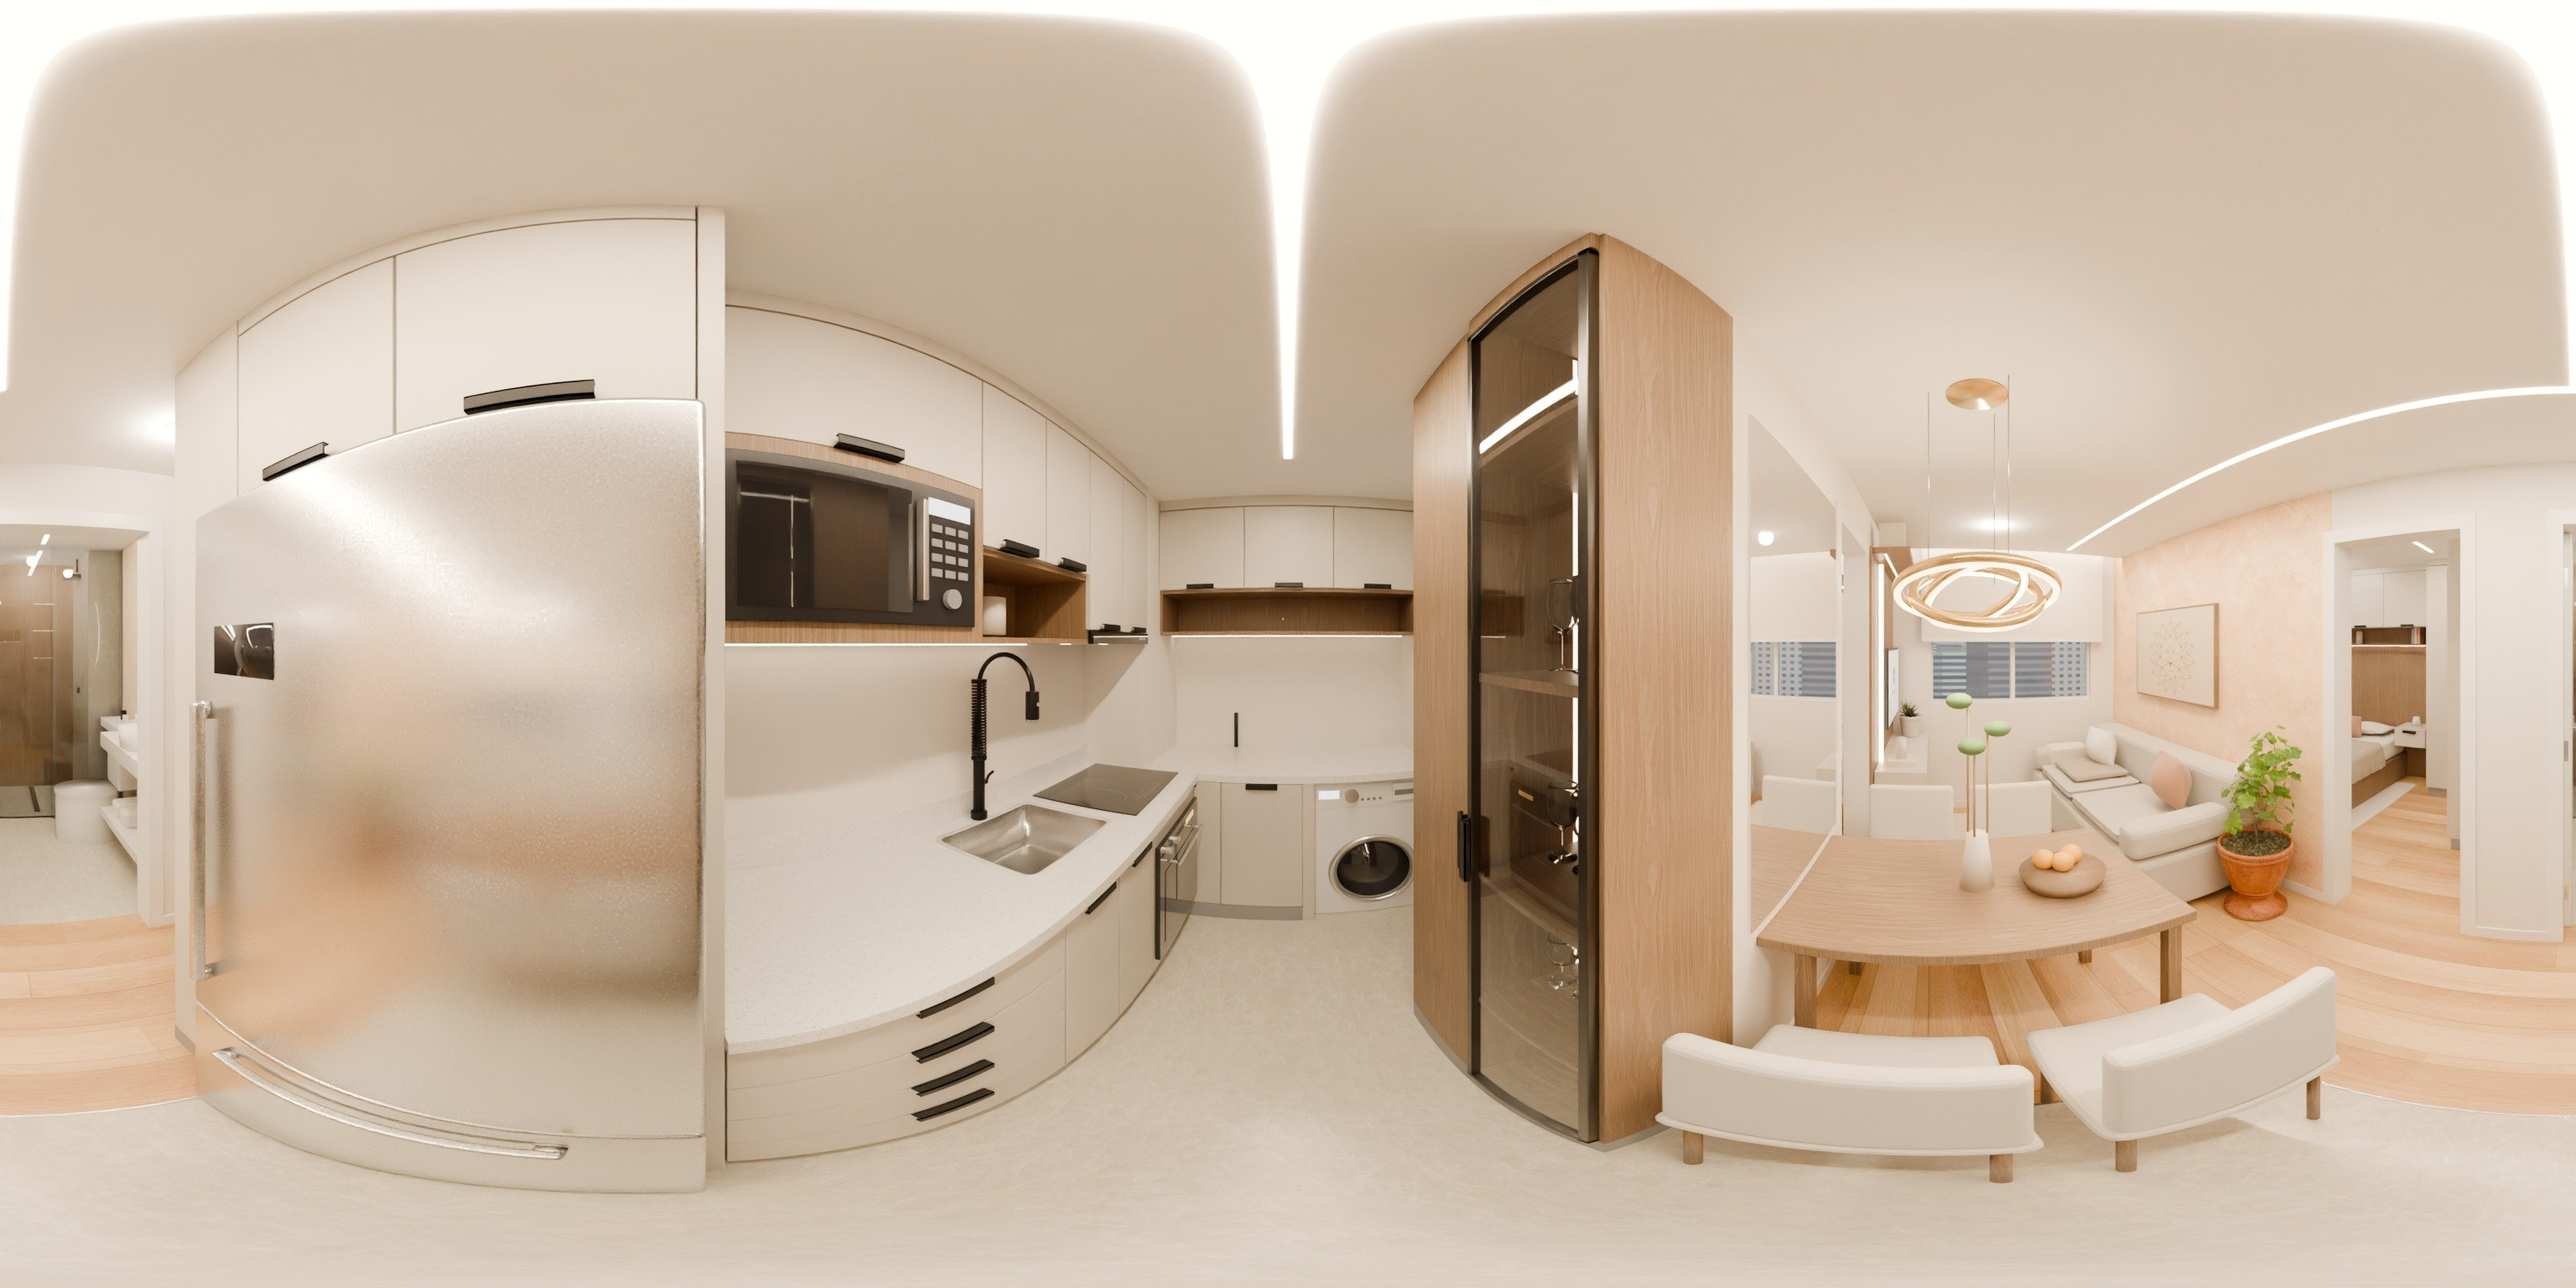
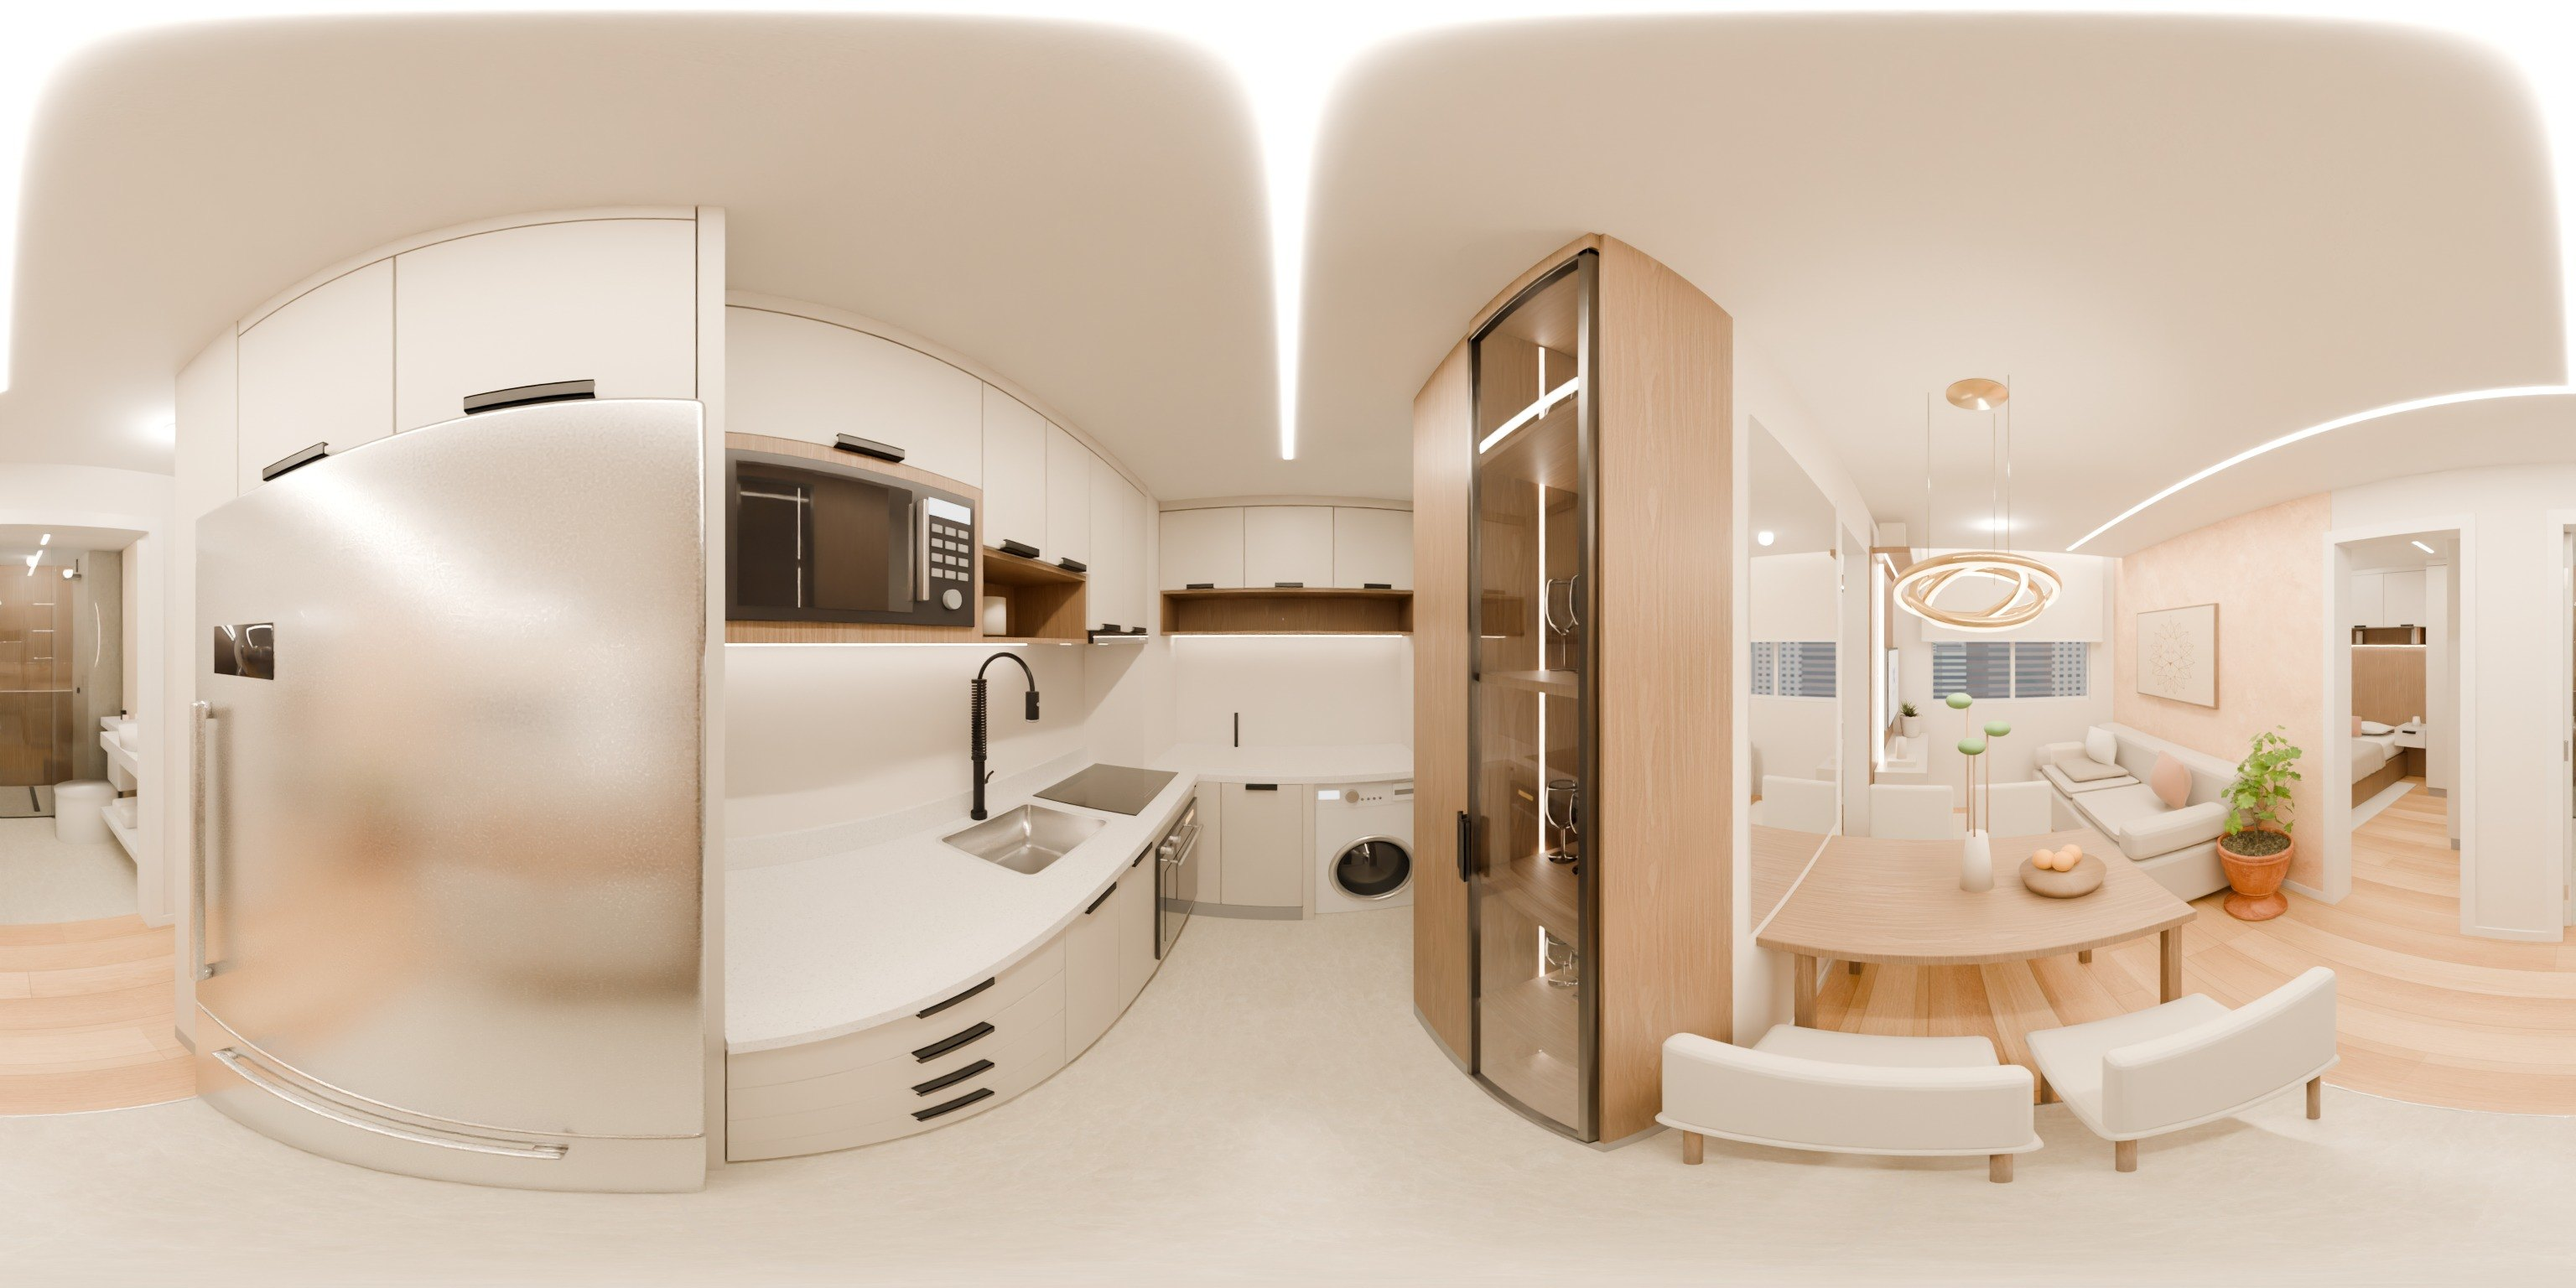
360: novo render de dia (LEDs fortes, nicho do box, cristaleira)
Claude-Session: https://claude.ai/code/session_01TCwC85nDjNHJiKaGTNL9QG

diff --git a/360/index.html b/360/index.html
@@ -54,11 +54,11 @@ nav button:focus-visible{outline:2px solid var(--brand);outline-offset:2px}
 <script>
 // posição de cada foto 360 na planta (m) e portas para onde as setas apontam
 const ROOMS=[
- {name:"Sala",img:"sala.jpg?v=6",p:[3.55,-3.3],go:[["Cozinha",1,[4.1,-1.7]],["Dormitório 02",3,[4.74,-3.04]],["Dormitório 01",2,[2.42,-1.9]],["Banheiro",4,[2.6,-0.75]]]},
- {name:"Cozinha",img:"cozinha.jpg?v=6",p:[4.3,-1.05],go:[["Sala",0,[3.6,-3.0]],["Banheiro",4,[2.6,-0.75]]]},
- {name:"Dormitório 01",img:"dormitorio_01.jpg?v=6",p:[1.2,-2.4],go:[["Sala",0,[2.42,-1.9]]]},
- {name:"Dormitório 02",img:"dormitorio_02.jpg?v=6",p:[5.7,-3.1],go:[["Sala",0,[4.74,-3.04]]]},
- {name:"Banheiro",img:"banheiro.jpg?v=6",p:[1.75,-0.75],look:[0.45,-0.65],go:[["Cozinha",1,[2.6,-0.75]]]}];
+ {name:"Sala",img:"sala.jpg?v=7",p:[3.55,-3.3],go:[["Cozinha",1,[4.1,-1.7]],["Dormitório 02",3,[4.74,-3.04]],["Dormitório 01",2,[2.42,-1.9]],["Banheiro",4,[2.6,-0.75]]]},
+ {name:"Cozinha",img:"cozinha.jpg?v=7",p:[4.3,-1.05],go:[["Sala",0,[3.6,-3.0]],["Banheiro",4,[2.6,-0.75]]]},
+ {name:"Dormitório 01",img:"dormitorio_01.jpg?v=7",p:[1.2,-2.4],go:[["Sala",0,[2.42,-1.9]]]},
+ {name:"Dormitório 02",img:"dormitorio_02.jpg?v=7",p:[5.7,-3.1],go:[["Sala",0,[4.74,-3.04]]]},
+ {name:"Banheiro",img:"banheiro.jpg?v=7",p:[1.75,-0.75],look:[0.45,-0.65],go:[["Cozinha",1,[2.6,-0.75]]]}];
 const view=document.getElementById('view'),hint=document.getElementById('hint'),nav=document.getElementById('rooms');
 const renderer=new THREE.WebGLRenderer({antialias:true});renderer.setPixelRatio(Math.min(devicePixelRatio,2));
 view.prepend(renderer.domElement);renderer.outputEncoding=THREE.sRGBEncoding;

diff --git a/index.html b/index.html
@@ -398,7 +398,7 @@ html.m .v360 small{font-size:12px}
     <h1>Apartamento<br><em>Phelipe</em></h1>
     <div class="rule"></div>
     <p>NOW Residence · Carapicuíba · SP</p>
-    <a class="v360" href="360/?v=7"><i>360°</i><span>Entrar no apartamento<small>Visite cada ambiente por dentro</small></span></a>
+    <a class="v360" href="360/?v=8"><i>360°</i><span>Entrar no apartamento<small>Visite cada ambiente por dentro</small></span></a>
   </div>
   <div class="cv-meta"><div><b>Cliente</b>Phelipe</div><div><b>Projeto</b>Daniel · Móveis X</div><div><b>Data</b>Outubro 2026</div></div>
 </div></section><section class="page concept">
@@ -971,6 +971,6 @@ html.m .v360 small{font-size:12px}
 <path d="M240 210 C262 188 284 178 297 176" fill="none" stroke="#ffffff" stroke-width="0.6"/>
 </svg>
 <div class="c3-txt"><img src="img/ecf70b03e1.png" alt="Móveis X"><h2>Feito sob medida<br><em>para o seu jeito de viver.</em></h2><div class="rule"></div>
-<p>Projeto de marcenaria · Apartamento Phelipe · NOW Residence</p><a class="v360" href="360/?v=7"><i>360°</i><span>Ver o apartamento em 360°<small>Sala, cozinha, quartos e banheiro</small></span></a></div>
+<p>Projeto de marcenaria · Apartamento Phelipe · NOW Residence</p><a class="v360" href="360/?v=8"><i>360°</i><span>Ver o apartamento em 360°<small>Sala, cozinha, quartos e banheiro</small></span></a></div>
 <div class="c3-script">Do projeto<br>à realidade</div></section>
 </body></html>
